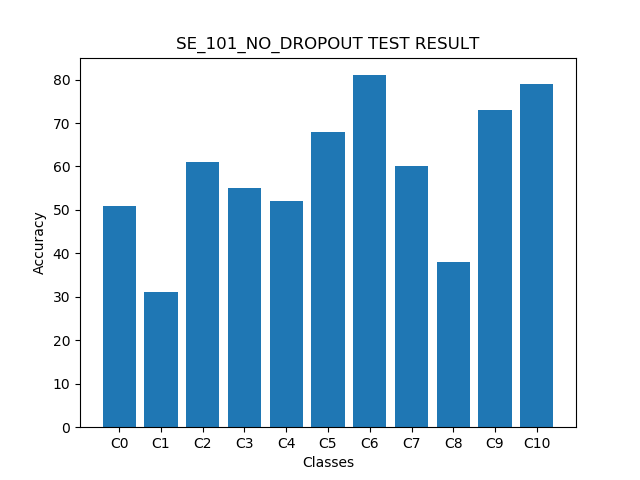
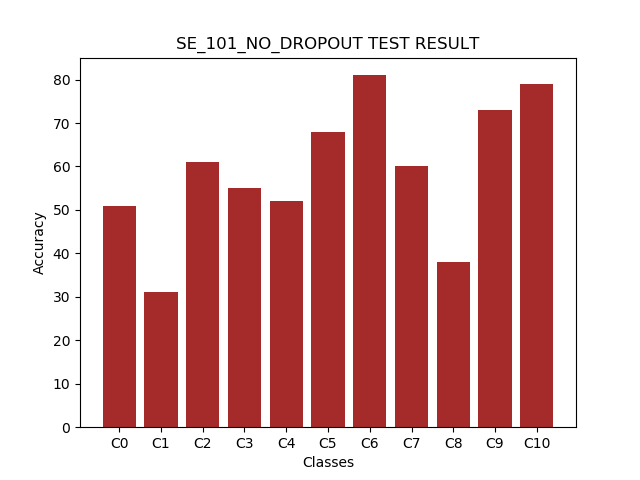
fix colors all charts

diff --git a/commons/plot.py b/commons/plot.py
@@ -44,7 +44,7 @@ OUTPUT_RES_SE_101_VGG = "[IMG]Res101- Se101 - vgg"
 OUTPUT_RES_SE_50_VGG = "[IMG]se50 - res50 - vgg"
 OUTPUT_RES_SE_101_NODROPOUT = "[IMG]res101 - se 101 - nodropout"
 OUTPUT_ALL = "[IMG]All AVG LOSS OVER ITER"
-
+colors = ['red', 'gold', 'blue', 'pink', 'olive', 'brown', 'orchid', 'skyblue', 'crimson']
 class Plot_G():
 	def __init__(self):
 		pass
@@ -117,15 +117,15 @@ class Plot_G():
 		plt.savefig(OUTPUT_RES_SE_101_NODROPOUT)
 		plt.close()
 		#all avg_loss of all models
-		plt.plot(X1, Z1, label = 'RES_101_DROPOUT')
-		plt.plot(X2, Z2, label = 'RES_101_NO_DROPOUT')
-		plt.plot(X3, Z3, label = 'RES_50')
-		plt.plot(X4, Z4, label = 'VGG_16')
-		plt.plot(X5, Z5, label = 'SE_101_DROPOUT')
-		plt.plot(X6, Z6, label = 'SE_101_NO_DROPOUT')
-		plt.plot(X7, Z7, label = 'SE_34')
-		plt.plot(X8, Z8, label = 'SE_50')
-		plt.plot(X9, Z9, label = 'SE_18')
+		plt.plot(X1, Z1, label = 'RES_101_DROPOUT', color = colors[0])
+		plt.plot(X2, Z2, label = 'RES_101_NO_DROPOUT', color = colors[1])
+		plt.plot(X3, Z3, label = 'RES_50', color = colors[2])
+		plt.plot(X4, Z4, label = 'VGG_16', color = colors[3])
+		plt.plot(X5, Z5, label = 'SE_101_DROPOUT', color = colors[4])
+		plt.plot(X6, Z6, label = 'SE_101_NO_DROPOUT', color = colors[5])
+		plt.plot(X7, Z7, label = 'SE_34', color = colors[6])
+		plt.plot(X8, Z8, label = 'SE_50', color = colors[7])
+		plt.plot(X9, Z9, label = 'SE_18', color = colors[8])
 		plt.legend()
 		plt.xlabel('Batch number')
 		plt.ylabel('Loss')
@@ -149,7 +149,7 @@ class Plot_G():
 		 "SE_34", "SE_50", "SE_18"]
 		avg_acc = [Z1, Z1, Z3, Z4, Z5, Z6, Z7, Z8, Z9]
 		classes_name = ["C0", "C1", "C2", "C3", "C4", "C5", "C6", "C7", "C8", "C9", "C10"]
-		plt.barh(model_names, avg_acc, alpha = 1)
+		plt.barh(model_names, avg_acc, alpha = 1, color = colors)
 		plt.title('Average Accuracy Of Models')
 		plt.xlabel('Models')
 		plt.ylabel('Avg Accuracy')
@@ -158,22 +158,22 @@ class Plot_G():
 		plt.close()
 
 		#draw test for classes in each model
-		self.draw_test_for_1_model(classes_name, Y1, title = 'RES_101_DROPOUT TEST RESULT')
-		self.draw_test_for_1_model(classes_name, Y2, title = 'RES_101_NO_DROPOUT TEST RESULT')
-		self.draw_test_for_1_model(classes_name, Y3, title = 'RES_50 TEST RESULT')
-		self.draw_test_for_1_model(classes_name, Y4, title = 'VGG_16 TEST RESULT')
-		self.draw_test_for_1_model(classes_name, Y5, title = 'SE_101_DROPOUT TEST RESULT')
-		self.draw_test_for_1_model(classes_name, Y6, title = 'SE_101_NO_DROPOUT TEST RESULT')
-		self.draw_test_for_1_model(classes_name, Y7, title = 'SE_34 TEST RESULT')
-		self.draw_test_for_1_model(classes_name, Y8, title = 'SE_50 TEST RESULT')
-		self.draw_test_for_1_model(classes_name, Y9, title = 'SE_18 TEST RESULT')		
+		self.draw_test_for_1_model(classes_name, Y1, title = 'RES_101_DROPOUT TEST RESULT', color = colors[0])
+		self.draw_test_for_1_model(classes_name, Y2, title = 'RES_101_NO_DROPOUT TEST RESULT', color = colors[1])
+		self.draw_test_for_1_model(classes_name, Y3, title = 'RES_50 TEST RESULT', color = colors[2])
+		self.draw_test_for_1_model(classes_name, Y4, title = 'VGG_16 TEST RESULT', color = colors[3])
+		self.draw_test_for_1_model(classes_name, Y5, title = 'SE_101_DROPOUT TEST RESULT', color = colors[4])
+		self.draw_test_for_1_model(classes_name, Y6, title = 'SE_101_NO_DROPOUT TEST RESULT', color = colors[5])
+		self.draw_test_for_1_model(classes_name, Y7, title = 'SE_34 TEST RESULT', color = colors[6])
+		self.draw_test_for_1_model(classes_name, Y8, title = 'SE_50 TEST RESULT', color = colors[7])
+		self.draw_test_for_1_model(classes_name, Y9, title = 'SE_18 TEST RESULT', color=colors[8])		
 		pass
 
 
-	def draw_test_for_1_model(self, classes, acc_list, title): #draw test for classes in 1 model
+	def draw_test_for_1_model(self, classes, acc_list, title, color): #draw test for classes in 1 model
 		# print ("X: {} lenght: {}".format(classes, len(classes)))
 		# print ("Y: {} lenght: {}".format(acc_list, len(acc_list)))
-		plt.bar(classes, acc_list, alpha = 1)
+		plt.bar(classes, acc_list, alpha = 1, color = color)
 		plt.title(title)
 		plt.xlabel('Classes')
 		plt.ylabel('Accuracy')
